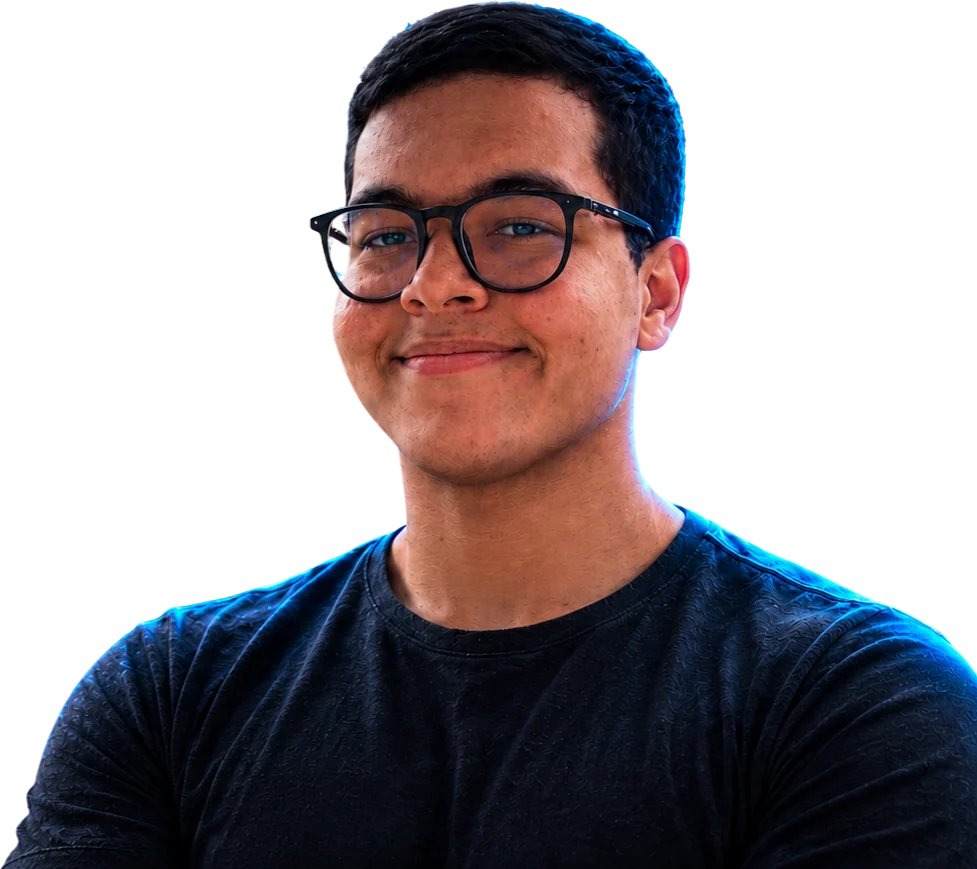
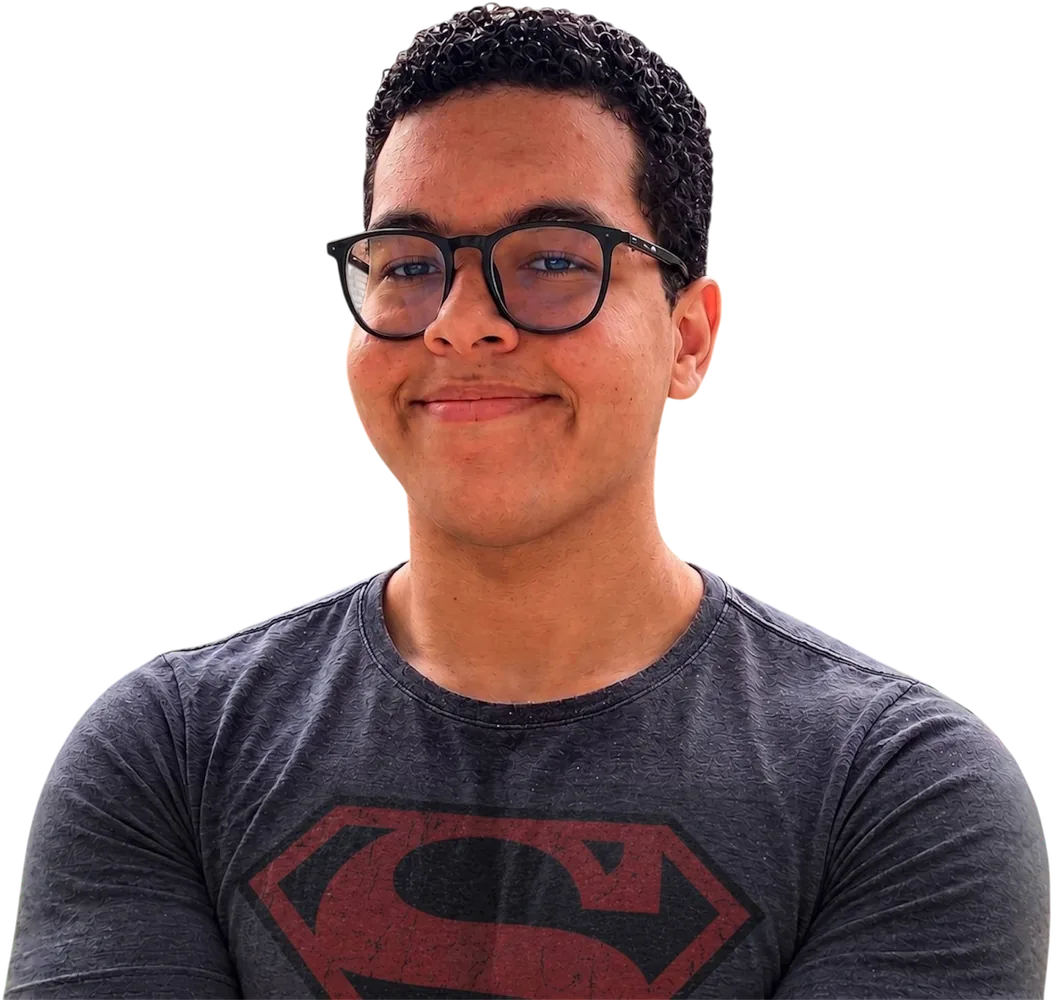
Nova foto de perfil no topo do site

diff --git a/src/sections/HeroSection.tsx b/src/sections/HeroSection.tsx
@@ -40,8 +40,8 @@ export const HeroSection: React.FC<HeroSectionProps> = ({ onOpenPdf }) => {
       <img
         src="./assets/portrait.webp"
         alt={`Foto de ${personalInfo.name}`}
-        width={977}
-        height={869}
+        width={1053}
+        height={1000}
         className="hero-portrait mask-portrait pointer-events-none absolute -z-10 select-none w-auto max-w-none
           left-1/2 top-[var(--nav-h)] -ml-[calc(var(--ph)*0.53)] h-[var(--ph)]
           wide:left-auto wide:top-auto wide:bottom-0 wide:right-[-6%] wide:ml-0 wide:h-[min(68svh,58vw)]
